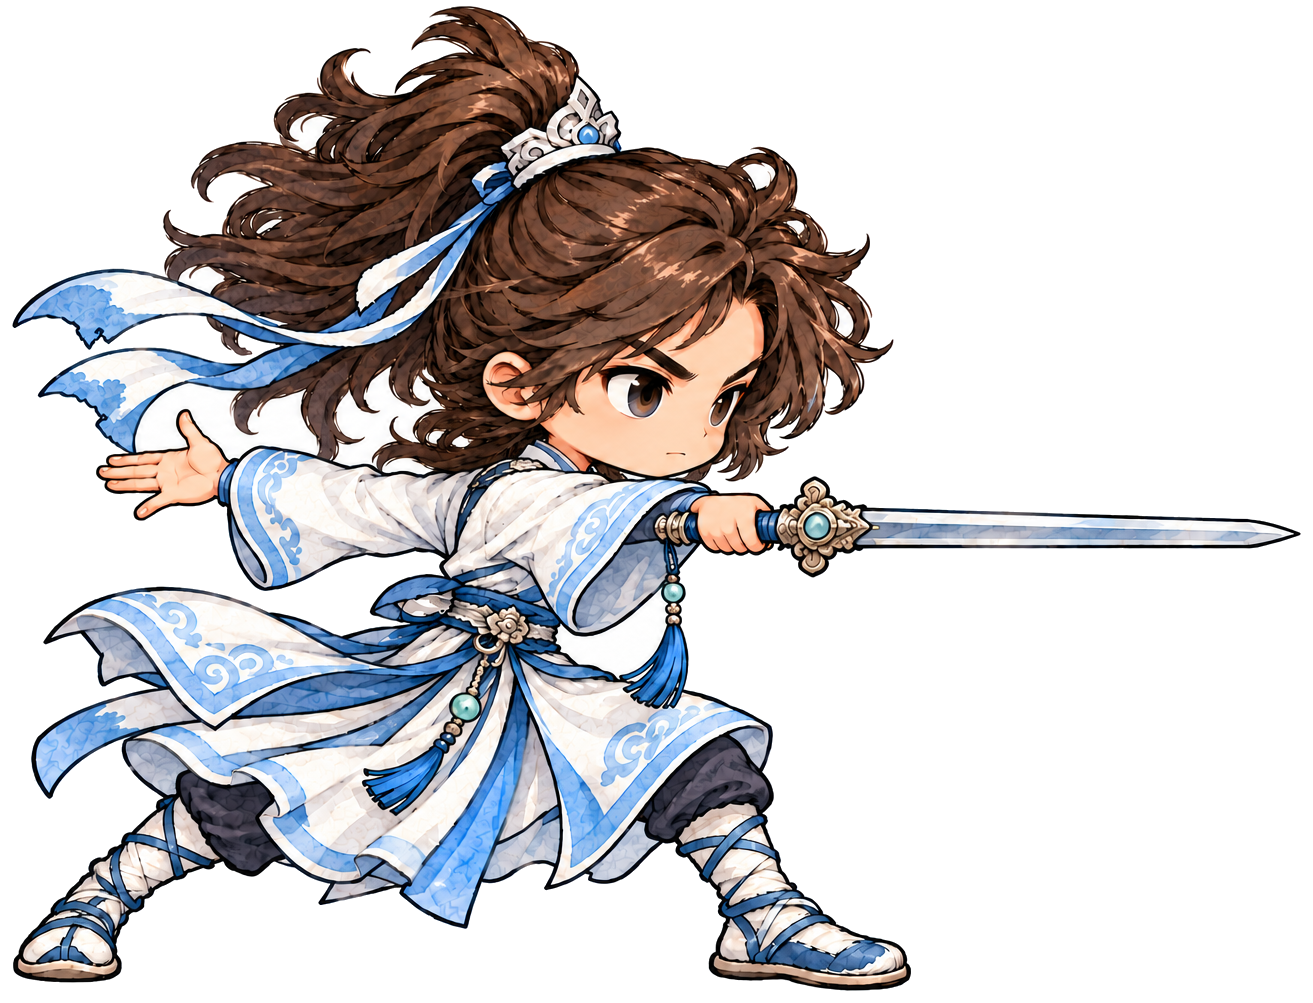
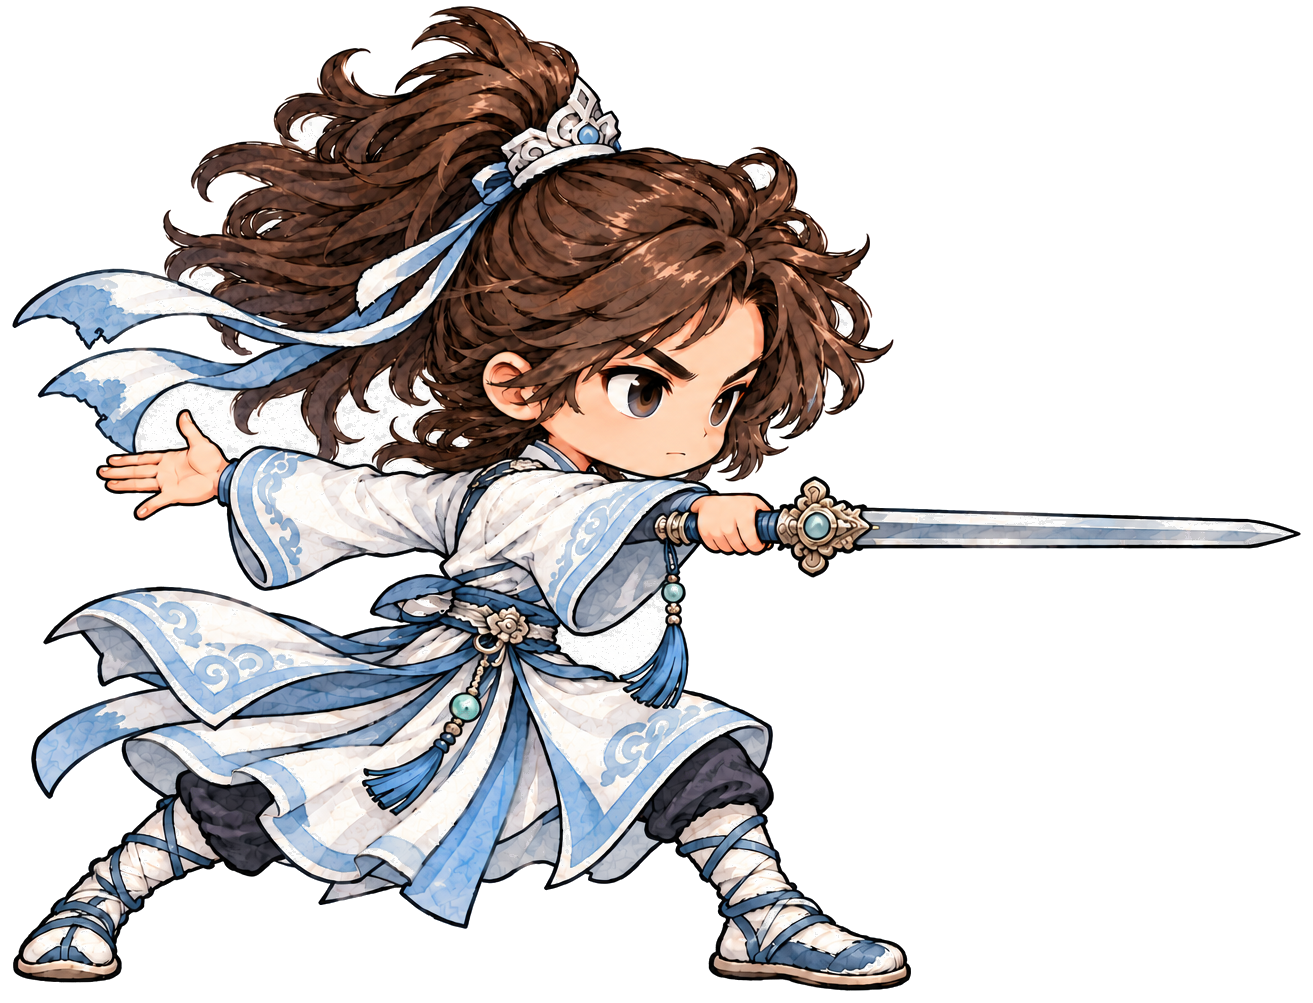
nantianmen-art: clean set update (new uploads, hero-sword attack blue matched to idle)
Claude-Session: https://claude.ai/code/session_01Uw94CbdzbjsxDH6Ak7QXw1

diff --git a/nantianmen-art/clean/matchblue.py b/nantianmen-art/clean/matchblue.py
@@ -1,0 +1,16 @@
+# Make the attack image's blue cloth match the idle image's (saturation and brightness of blue pixels).
+import sys, numpy as np
+from PIL import Image
+ref, src, out = sys.argv[1:4]
+def hsv(p):
+    im = Image.open(p).convert('RGBA'); a = np.asarray(im)[..., 3]
+    h = np.asarray(im.convert('RGB').convert('HSV')).astype(np.float32); return im, h, a
+_, hr, ar = hsv(ref); im, hs, as_ = hsv(src)
+def blue(h, a): return (a > 200) & (h[..., 0] > 130) & (h[..., 0] < 175) & (h[..., 1] > 40)
+br, bs = blue(hr, ar), blue(hs, as_)
+ks = np.median(hr[..., 1][br]) / np.median(hs[..., 1][bs]); kv = np.median(hr[..., 2][br]) / np.median(hs[..., 2][bs])
+print('sat x%.2f val x%.2f  blue share ref %.3f src %.3f' % (ks, kv, br.mean() / (ar > 200).mean(), bs.mean() / (as_ > 200).mean()))
+m = (as_ > 0) & (hs[..., 0] > 125) & (hs[..., 0] < 180)
+hs[..., 1][m] = np.clip(hs[..., 1][m] * ks, 0, 255); hs[..., 2][m] = np.clip(hs[..., 2][m] * kv, 0, 255)
+rgb = Image.fromarray(hs.astype(np.uint8), 'HSV').convert('RGB')
+o = rgb.convert('RGBA'); o.putalpha(im.getchannel('A')); o.save(out)
